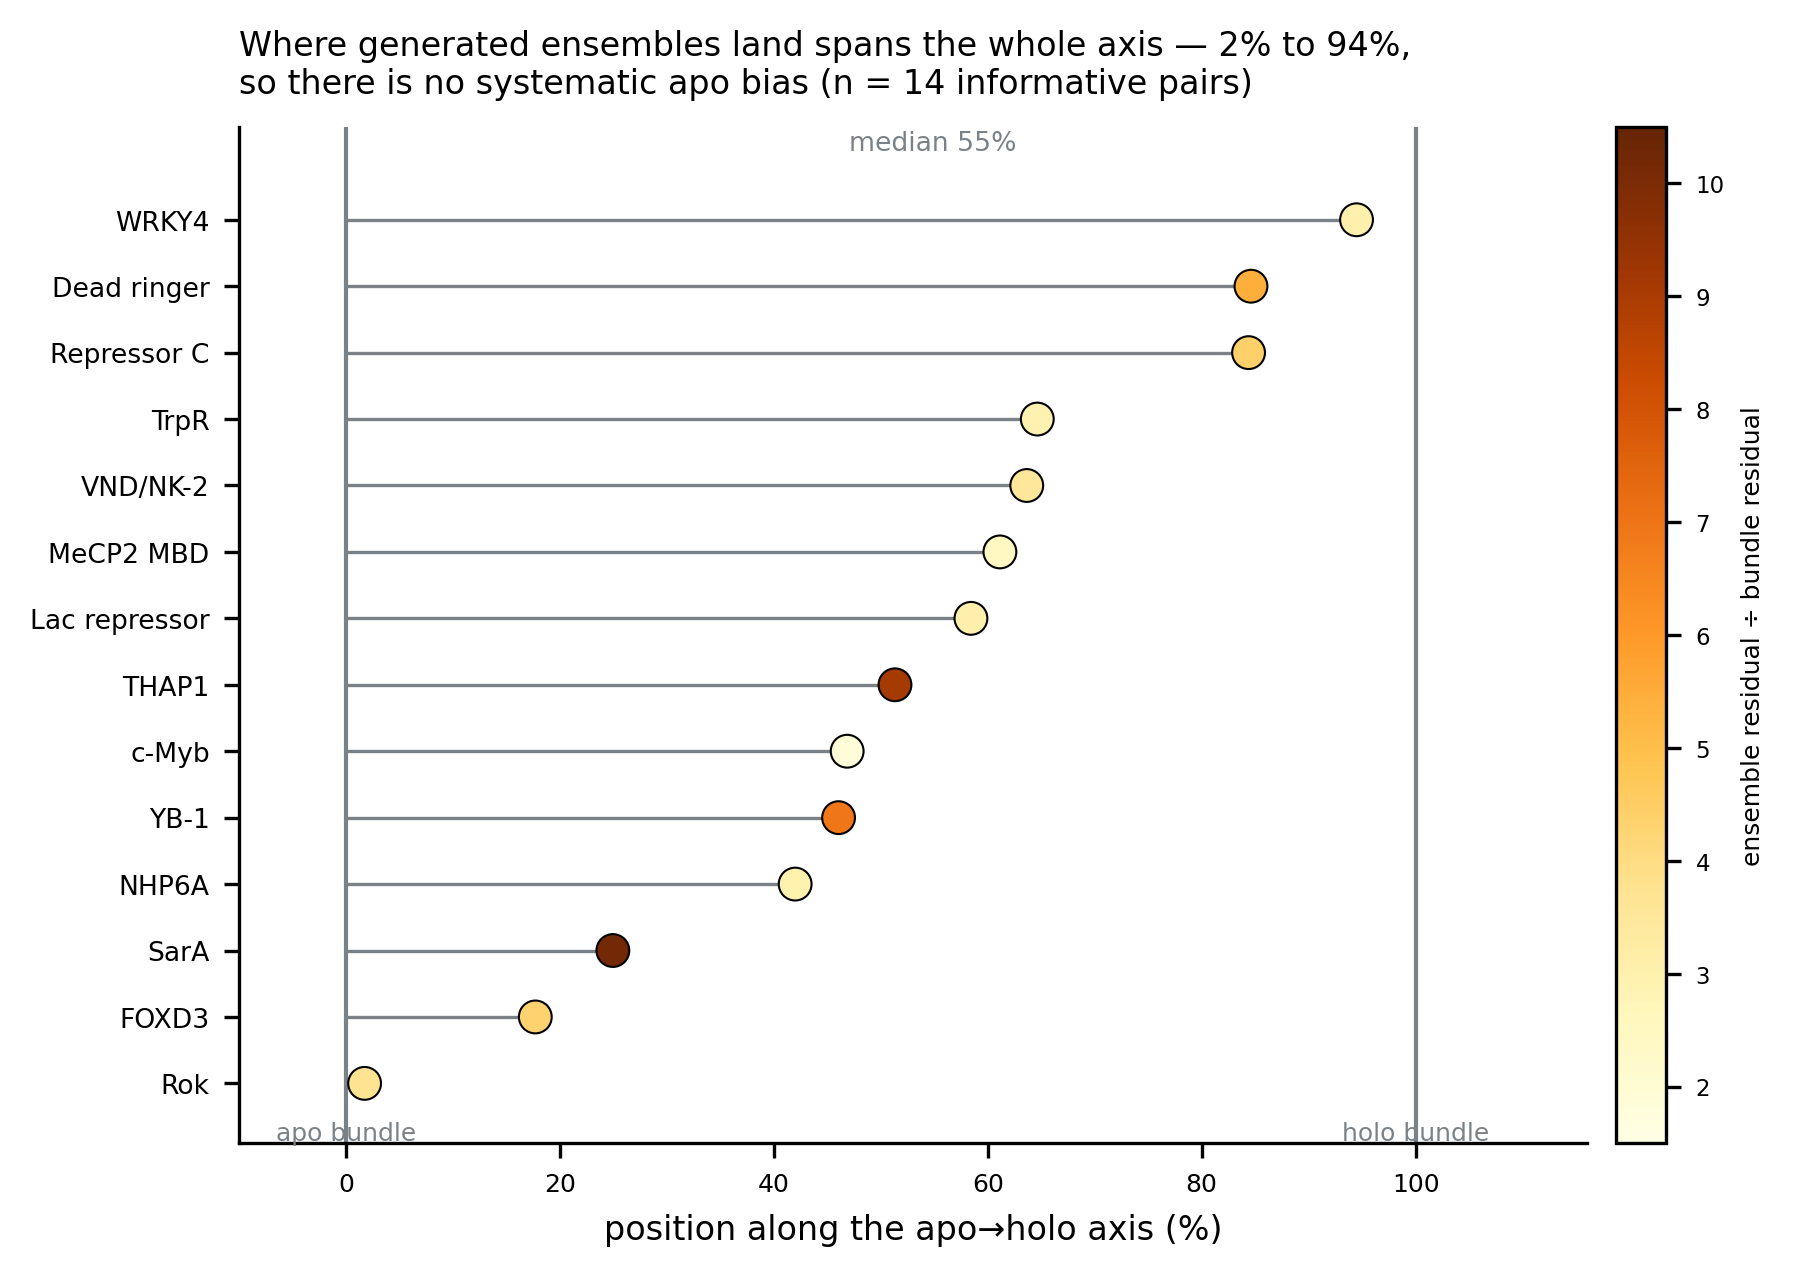
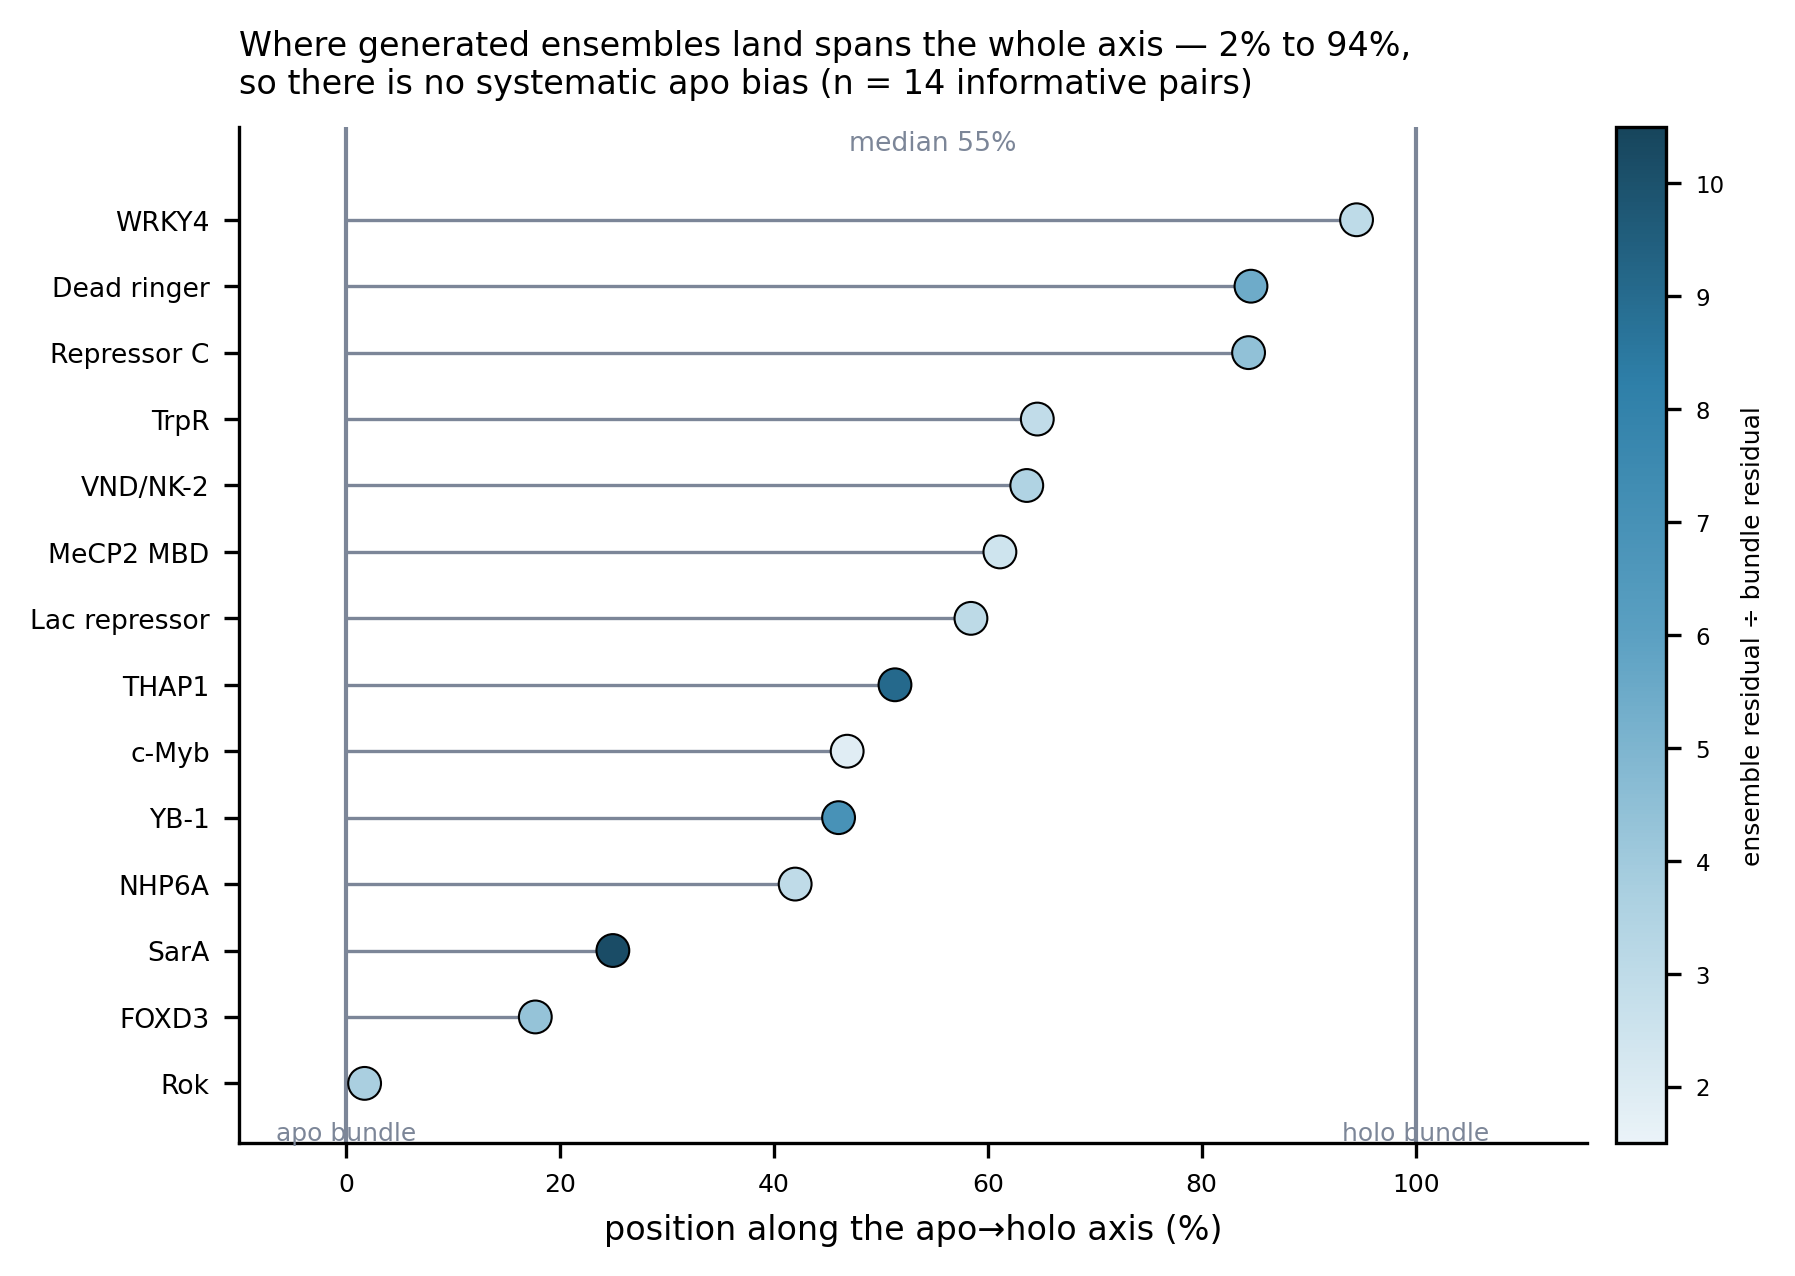
nmr_rmsd: palette-correct the talk figures, add N9 design and N10 construct control
make_talk_figs.py now imports the repo-root palette instead of a local hex set.
The old set drew BioEmu in the alarm hue (BIO == ALARM) in N1/N6/N7 and shaded N4
with the warm YlOrBr ramp. Entity colours now follow the house mapping: grey ramp
for deposited reference structures, teal for BioEmu and the augmented thread,
rose for excluded data and annotation only.

Label fixes: N8b's x tick labels no longer collide (data/talk/v5_S28_crosspilot.csv
picks up the shorter names), and N2's title reads '16 pairs, 14 of them informative'
instead of the unparseable '16 deposited family annotations'.

Two new figures close the last table-driven gaps in the talk plan:
  N9  three-way design (S7) -- lane medians and pass rates are read from the same
      tables N1 uses, so the schematic cannot drift from the result it introduces
  N10 construct control (S18) -- nhp6a and vnd, whose apo- and holo-side BioEmu
      inputs are byte-identical sequences, projected on the apo->holo axis; KS is
      computed in-figure (p = 0.61 and 0.15) rather than quoted

Run needs a BLAS thread pin on an endeavour login node; see the module docstring.

diff --git a/analysis/analyses/nmr_rmsd/make_talk_figs.py b/analysis/analyses/nmr_rmsd/make_talk_figs.py
@@ -4,7 +4,17 @@
 Reads only tracked tables under analysis/analyses/nmr_rmsd/ and
 analysis/analyses/conf_vs_crystal_pwm/. No structure files, no GPU, no network.
 
-  python make_talk_figs.py [--out plots/talk] [--tables data/talk]
+Run from this directory. On an endeavour login node the BLAS thread limit must
+be pinned or numpy fails to import (pthread_create "Resource temporarily
+unavailable", which surfaces as a misleading "do not import numpy from its
+source directory"):
+
+  export OPENBLAS_NUM_THREADS=1 OMP_NUM_THREADS=1 MKL_NUM_THREADS=1
+  /project2/rohs_102/shewchuk/conda/envs/deeppbs/bin/python make_talk_figs.py \
+      [--out plots/talk] [--tables data/talk]
+
+Writes eight PNGs to --out and the four tables behind them to --tables, so every
+number on a slide can be traced without re-running the figure code.
 
 Conventions fixed here on purpose, because getting them wrong changed what a
 slide said during review:
@@ -32,8 +42,27 @@ import matplotlib.pyplot as plt
 
 HERE = os.path.dirname(os.path.abspath(__file__))
 PWM = os.path.normpath(os.path.join(HERE, "..", "conf_vs_crystal_pwm"))
+TFCONF = os.path.normpath(os.path.join(HERE, "..", "..", ".."))
 
-MG, HOLO, APO, BIO, ALARM = "#7a8288", "#1b6b7a", "#5f8fa6", "#b3452c", "#b3452c"
+import sys
+sys.path.insert(0, HERE)
+sys.path.insert(0, TFCONF)
+from palette import GREY, GREY_R, TEAL, TEAL_R, ALARM   # noqa: E402
+
+# Entity colors come from the repo-root palette.py (the single source) and keep
+# its semantics, same as plot_pair_pca.py in this theme:
+#   grey ramp  = deposited reference structures (the fixed experimental anchor);
+#                two lightness steps separate the holo bundle from the apo bundle
+#   teal       = BioEmu / the augmented-frozen thread -- the thing under test
+#   ALARM      = excluded or "augmentation hurts" ANNOTATION only, never a series
+# The earlier hardcoded set drew BioEmu in the alarm hue (BIO == ALARM) and used
+# a warm YlOrBr ramp, which inverted the house mapping in N1/N4/N6/N7.
+MG = GREY
+HOLO = GREY_R[2]        # deposited holo bundle -- darkest grey
+APO = GREY_R[1]         # deposited apo bundle  -- mid grey
+BIO = TEAL              # BioEmu ensemble (focal)
+RATIO_CMAP = mpl.colors.LinearSegmentedColormap.from_list(
+    "teal_ratio", ["#EAF3F8", TEAL_R[0], TEAL_R[1], TEAL_R[2], "#17455C"])
 
 # Protein names. Taken from pair_core_summary_ca.csv 'family' where the
 # deposited entry title is generic (c09 is "PROTEIN (TRANSCRIPTION FACTOR)").
@@ -67,6 +96,7 @@ def load():
                      ("core", "pair_core_summary_ca.csv"),
                      ("pca", "pair_pca_ca.csv"),
                      ("trim", "trim_sweep_ca.csv"),
+                     ("proj", "pair_projection_ca.csv"),
                      ("three_way", "fnat/fnat_three_way.csv"),
                      ("pilots_summary", "fnat_pilots/fnat_pilots_summary.csv")]:
         d[key] = pd.read_csv(os.path.join(HERE, rel))
@@ -198,7 +228,7 @@ def fig_N2(d, AC, out):
             "14 informative pairs (black) + 2 gated out (red; their apo–holo separation is inside\n"
             "bundle noise, so % across is undefined) · 22 further pairs staged in pairs.csv",
             fontsize=6, color=MG, transform=ax.transAxes, va="top")
-    ax.set_title("The pair set: 16 apo/holo solution-NMR pairs, 16 deposited family annotations")
+    ax.set_title("The pair set: 16 apo/holo solution-NMR pairs, 14 of them informative")
     fig.savefig(os.path.join(out, "N2_pair_roster.png"), bbox_inches="tight")
     plt.close(fig)
 
@@ -262,7 +292,7 @@ def fig_N4(AC, out):
     for i, r in inf.iterrows():
         ax.plot([0, r.pct_across], [i, i], color=MG, lw=.8, zorder=1)
     sc = ax.scatter(inf.pct_across, y, s=62, c=inf.resid_ratio,
-                    cmap=mpl.colormaps["YlOrBr"], norm=norm,
+                    cmap=RATIO_CMAP, norm=norm,
                     edgecolor="black", lw=.5, zorder=3)
     ax.set_yticks(y); ax.set_yticklabels([SHORT[p] for p in inf.pair_id], fontsize=6.4)
     ax.set_xlabel("position along the apo→holo axis (%)")
@@ -410,9 +440,9 @@ def fig_N8(d, out, tabdir):
     P = pv[["baseline", "aug_frozen"]].dropna()
     w = stats.wilcoxon(P.baseline, P.aug_frozen)
     CP = d["crosspilot"]; X = CP[~CP.same_pilot]
-    bars = [("vs the crystal's own\nprediction\n(consistency)",
+    bars = [("consistency\nvs own crystal\nprediction",
              X.d_r_state_crystal.mean(), X.d_r_state_crystal.sem(), X.d_r_state_crystal.notna().sum()),
-            ("vs the experimental\nmotif\n(accuracy)",
+            ("accuracy\nvs experimental\nmotif",
              X.d_r_state_exp.mean(), X.d_r_state_exp.sem(), X.d_r_state_exp.notna().sum())]
     fig = plt.figure(figsize=(7.2, 3.8))
     gs = fig.add_gridspec(1, 2, wspace=.44, width_ratios=[1.25, 1])
@@ -423,16 +453,16 @@ def fig_N8(d, out, tabdir):
                 lw=1.1, marker="o", ms=3.2, zorder=3 if up else 2, alpha=.95 if up else .7)
         if up:
             a1.text(1.04, r.aug_frozen, tf, fontsize=5.8, va="center", color=ALARM)
-    a1.plot([0, 1], [P.baseline.mean(), P.aug_frozen.mean()], color=HOLO,
+    a1.plot([0, 1], [P.baseline.mean(), P.aug_frozen.mean()], color=TEAL,
             lw=2.6, marker="o", ms=5, zorder=5)
     a1.text(1.04, P.aug_frozen.mean(), "mean", fontsize=6.2, va="center",
-            color=HOLO, fontweight="bold")
+            color=TEAL, fontweight="bold")
     a1.set_xticks([0, 1]); a1.set_xticklabels(["baseline", "augmented\n(frozen DNA)"], fontsize=6.4)
     a1.set_xlim(-.18, 1.42)
     a1.set_ylabel("spread of PWM agreement\nacross conformations (SD)")
     a1.text(.02, .04, "lower in %d of %d pilots\nWilcoxon p = %.3f"
             % ((P.aug_frozen < P.baseline).sum(), len(P), w.pvalue),
-            transform=a1.transAxes, fontsize=6.2, color=HOLO)
+            transform=a1.transAxes, fontsize=6.2, color=TEAL)
     a1.text(1.015, .5, "lower = more consistent", transform=a1.transAxes,
             rotation=90, va="center", fontsize=6, color=MG)
     a1.set_title("Augmentation made predictions more consistent\n"
@@ -440,7 +470,7 @@ def fig_N8(d, out, tabdir):
     a2 = fig.add_subplot(gs[0, 1])
     xb = np.arange(2)
     a2.bar(xb, [b[1] for b in bars], yerr=[1.96 * b[2] for b in bars],
-           color=[APO, HOLO], width=.6, capsize=3, error_kw=dict(lw=.9), zorder=3)
+           color=[TEAL_R[0], TEAL], width=.6, capsize=3, error_kw=dict(lw=.9), zorder=3)
     a2.axhline(0, color="black", lw=.9)
     for i, b in enumerate(bars):
         a2.text(i, b[1] + 1.96 * b[2] + .0015, "%+.3f" % b[1],
@@ -491,6 +521,100 @@ def tables(d, AC, tabdir):
        .to_csv(os.path.join(tabdir, "v5_pair_table.csv"), index=False))
 
 
+def fig_N9(d, out):
+    """S7 -- the design of the three-way comparison, with its own numbers on it.
+
+    Drawn rather than photographed so it regenerates: the three medians and pass
+    rates are read from the same tables N1 uses, so the schematic cannot drift
+    away from the result it introduces.
+    """
+    ok = set(d["three_way"].query("ok").pair)
+    F = d["fnat_states"][d["fnat_states"].pair.isin(ok)]
+    lanes = [("holo_states", "holo bundle, DNA stripped", "positive control --\nconformation is already right"),
+             ("apo_states", "deposited apo bundle", "the free state, as\nexperiment actually finds it"),
+             ("bioemu", "BioEmu ensemble", "the free state, as\nthe generator imagines it")]
+    fig, ax = plt.subplots(figsize=(7.2, 3.6))
+    ax.set_xlim(0, 10.6); ax.set_ylim(-0.1, 4.0); ax.axis("off")
+    for i, (src, name, why) in enumerate(lanes):
+        y = 3.05 - i * 1.00          # lane pitch 1.00 against a 0.46 box half-height
+        c = COL[src]
+        ax.add_patch(mpl.patches.FancyBboxPatch(
+            (0.15, y - .46), 3.25, .92, boxstyle="round,pad=0.04",
+            facecolor=c, alpha=.22, edgecolor=c, lw=1.0))
+        ax.text(1.78, y + .26, name, ha="center", va="center",
+                fontsize=6.4, fontweight="bold", color=c)
+        ax.text(1.78, y + .02, "n = %d states" % (F.source == src).sum(),
+                ha="center", va="center", fontsize=5.4, color=MG)
+        ax.text(1.78, y - .26, why.replace("\n", " "), ha="center", va="center",
+                fontsize=5.0, color=MG, style="italic")
+        ax.annotate("", xy=(5.15, y), xytext=(3.50, y),
+                    arrowprops=dict(arrowstyle="-|>", lw=1.0, color=MG))
+        ax.text(4.32, y + .20, "dock onto the\nbound DNA", ha="center", va="center",
+                fontsize=5.2, color=MG, linespacing=1.25)
+        ax.add_patch(mpl.patches.FancyBboxPatch(
+            (5.25, y - .26), 1.6, .52, boxstyle="round,pad=0.04",
+            facecolor="none", edgecolor=MG, lw=0.8, ls="--"))
+        ax.text(6.05, y, "score fnat", ha="center", va="center",
+                fontsize=5.8, color=MG)
+        ax.annotate("", xy=(7.55, y), xytext=(6.95, y),
+                    arrowprops=dict(arrowstyle="-|>", lw=1.0, color=MG))
+        v = F[F.source == src].fnat.values
+        ax.text(7.70, y + .12, "median %.3f" % np.median(v), ha="left", va="center",
+                fontsize=7.0, fontweight="bold", color=c)
+        ax.text(7.70, y - .16, "%.0f%% clear the gate" % (100 * (v >= .5).mean()),
+                ha="left", va="center", fontsize=5.6, color=MG)
+    ax.text(0.15, 3.92, "Same protein, same bound DNA, same scoring — three sources of conformation",
+            fontsize=7.2, fontweight="bold", va="top")
+    ax.text(0.15, -0.02, "13 pairs whose holo control clears the gate · no model, no training, "
+                         "no DeepPBS anywhere in this measurement",
+            fontsize=5.6, color=MG, va="bottom")
+    fig.savefig(os.path.join(out, "N9_three_way_design.png"), bbox_inches="tight")
+    plt.close(fig)
+
+
+def fig_N10(d, out):
+    """S18 -- the construct control: two pairs whose apo and holo BioEmu inputs
+    are byte-identical sequences, so any disagreement is sampling noise.
+
+    KS is computed here rather than quoted, and the axis is the same apo->holo
+    coordinate as N4 (projection column `t`, 0 = apo bundle, 1 = holo bundle).
+    """
+    PJ = d["proj"]; PS = d["pca_summary"]
+    pairs = [("nhp6a", "NHP6A — 93-residue input, identical both sides"),
+             ("vnd", "VND/NK-2 — 77-residue input, identical both sides")]
+    fig, axes = plt.subplots(1, 2, figsize=(7.0, 3.4))
+    for ax, (pid, head) in zip(axes, pairs):
+        for grp, lab, shade in [("apo_ens", "from the apo-side sequence", TEAL_R[0]),
+                                ("holo_ens", "from the holo-side sequence", TEAL_R[2])]:
+            v = 100 * PJ[(PJ.pair_id == pid) & (PJ.group == grp)].t.values
+            ax.hist(v, bins=np.linspace(-20, 120, 29), density=True, histtype="stepfilled",
+                    facecolor=shade, alpha=.5, edgecolor=shade, lw=1.1, label=lab)
+            ax.axvline(np.median(v), color=shade, lw=1.4, ls="-")
+        a = 100 * PJ[(PJ.pair_id == pid) & (PJ.group == "apo_ens")].t.values
+        b = 100 * PJ[(PJ.pair_id == pid) & (PJ.group == "holo_ens")].t.values
+        ks = stats.ks_2samp(a, b)
+        mp = PS[PS.pair_id == pid].set_index("group").median_pc1_A
+        dA = abs(mp.get("apo_ens", np.nan) - mp.get("holo_ens", np.nan))
+        ax.axvline(0, color=MG, lw=0.9); ax.axvline(100, color=MG, lw=0.9)
+        ax.set_title(head, fontsize=6.6)
+        ax.set_xlabel("position along the apo→holo axis (%)")
+        ax.set_ylim(0, ax.get_ylim()[1] * 1.42)   # headroom for the annotation
+        ax.text(.02, .99, "medians %.0f%% vs %.0f%%  (Δ = %.2f Å)\nKS p = %.2f — not separable"
+                % (np.median(a), np.median(b), dA, ks.pvalue),
+                transform=ax.transAxes, va="top", fontsize=5.6, color=MG, linespacing=1.4)
+        ax.set_yticks([])
+        for sp in ("left", "right", "top"):
+            ax.spines[sp].set_visible(False)
+    axes[0].set_ylabel("ensemble density")
+    axes[0].legend(loc="upper left", bbox_to_anchor=(.02, .74), frameon=False,
+                   fontsize=5.6, handlelength=1.2)
+    fig.suptitle("The construct control: identical input sequence both sides, so this spread is "
+                 "sampling noise", fontsize=7.4, x=.07, ha="left")
+    fig.tight_layout(rect=(0, 0, 1, .93))
+    fig.savefig(os.path.join(out, "N10_construct_control.png"), bbox_inches="tight")
+    plt.close(fig)
+
+
 def main():
     ap = argparse.ArgumentParser()
     ap.add_argument("--out", default=os.path.join(HERE, "plots", "talk"))
@@ -503,8 +627,9 @@ def main():
     assert set(SHORT) == set(d["core"].pair_id), "SHORT name map is out of sync with pairs"
     fig_N1(d, a.out); fig_N2(d, AC, a.out); fig_N3(d, a.out); fig_N4(AC, a.out)
     fig_N5(AC, a.out); fig_N6(AC, a.out); fig_N7(d, a.out); fig_N8(d, a.out, a.tables)
+    fig_N9(d, a.out); fig_N10(d, a.out)
     tables(d, AC, a.tables)
-    print("wrote 8 figures to %s and 4 tables to %s" % (a.out, a.tables))
+    print("wrote 10 figures to %s and 4 tables to %s" % (a.out, a.tables))
 
 
 if __name__ == "__main__":
